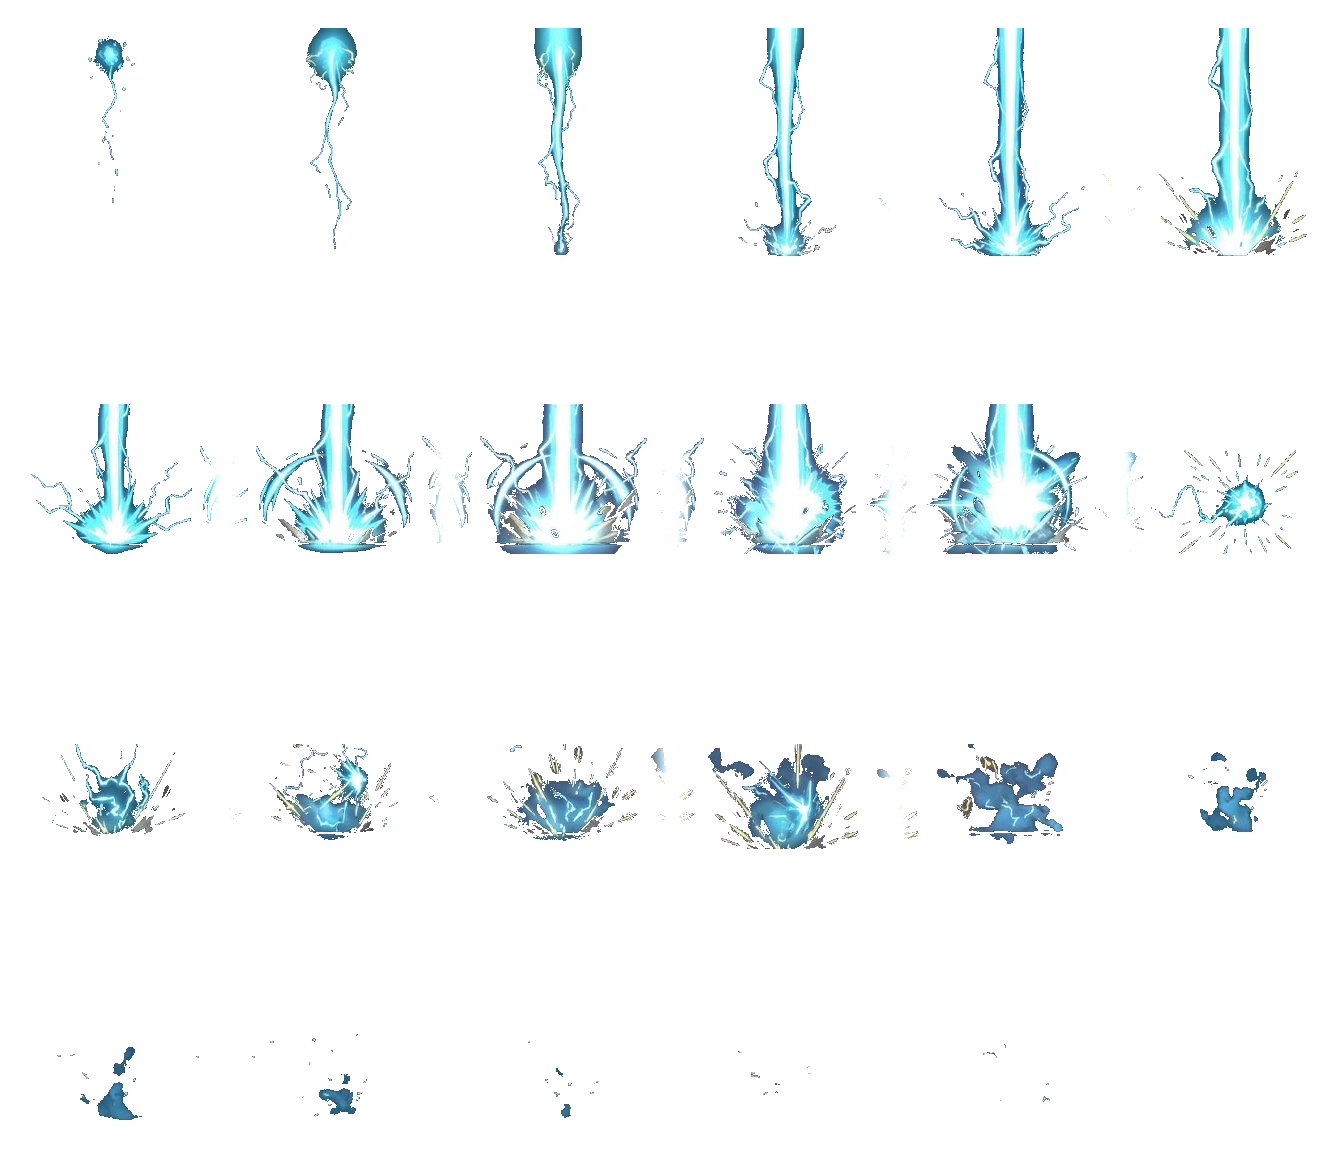
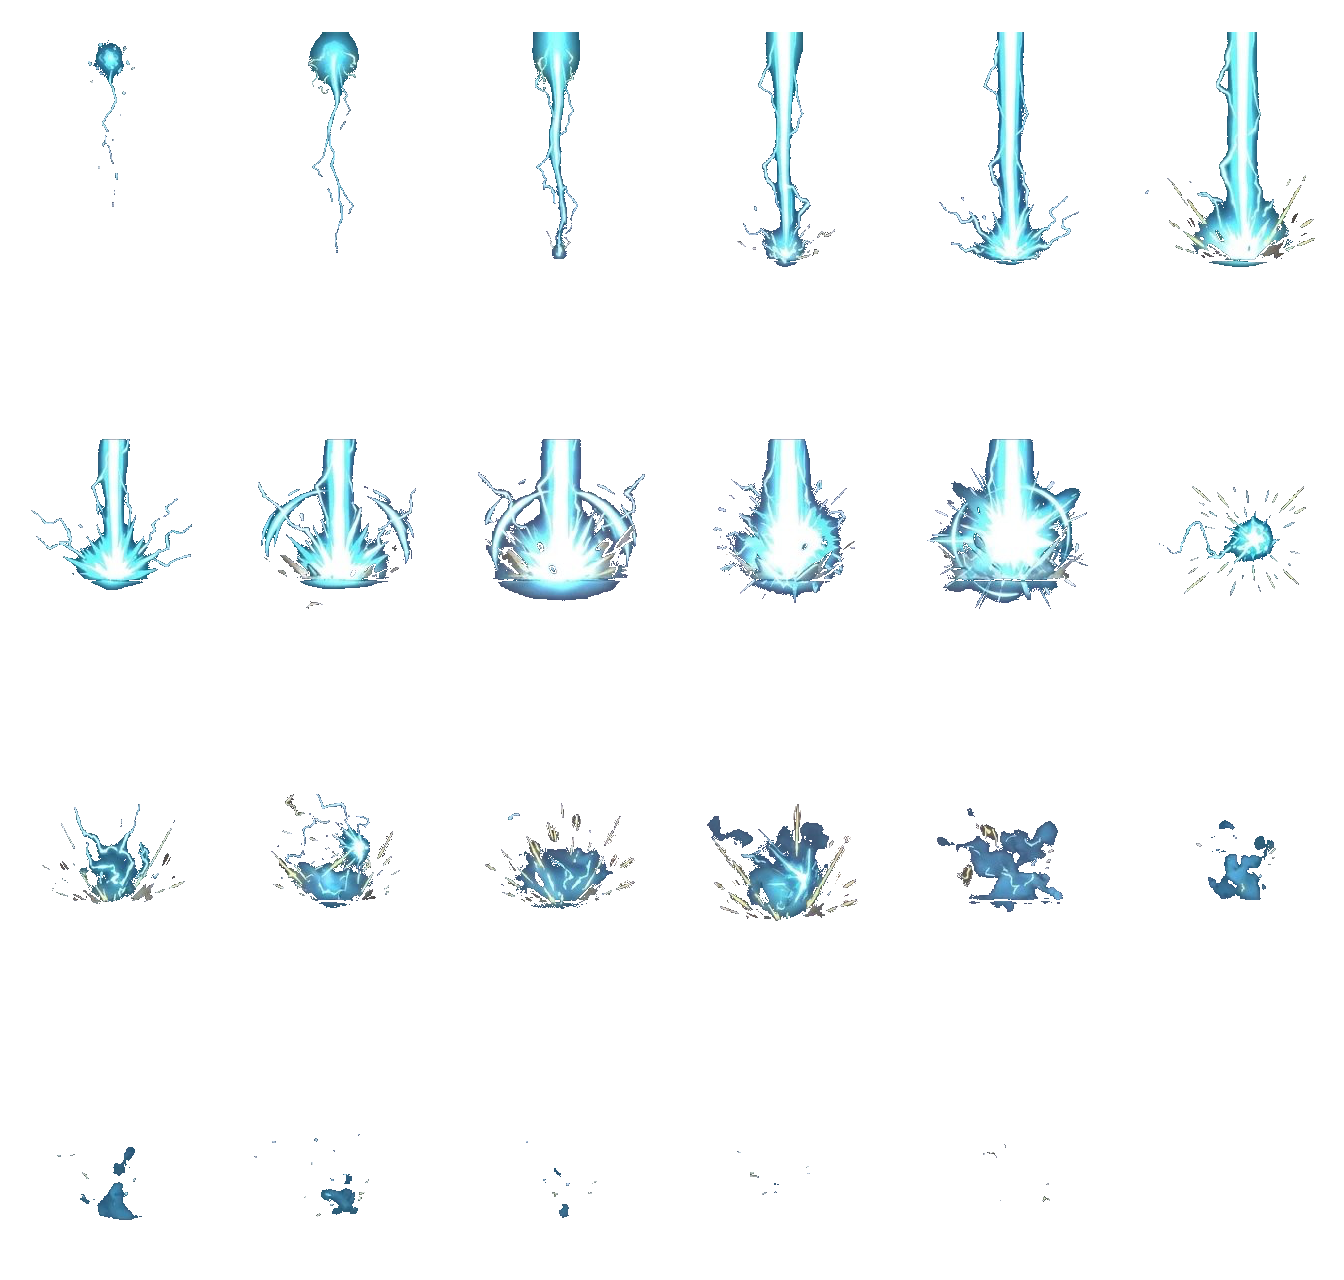
fix(vfx): eliminar detritos duplicados e corte inferior da explosao do raio dos ceus

diff --git a/src/bolt.js b/src/bolt.js
@@ -224,11 +224,11 @@ export class SkyStrike {
     const { cellW, cellH, anchor, cols } = strikeMeta;
     // Escala equilibrada com o Saxon/Viking
     const s = (this.unit / 3.0) * 1.35;
-    const groundDrawY = this.y;
-    const topDrawY = groundDrawY - anchor.y * s;
+    // Altura onde a arte do raio começa em relação ao chão (228px nos frames 1..5, 141px nos frames 6..10)
+    const boltTopY = this.y - (this.frame <= 5 ? 228 : 141) * s;
 
     // Conexão contínua suave com o topo do céu durante a queda do raio (frames 1 a 10)
-    if (this.frame >= 1 && this.frame <= 10 && topDrawY > 0) {
+    if (this.frame >= 1 && this.frame <= 10 && boltTopY > 0) {
       const beamW = (this.frame <= 2 ? 8 : this.frame <= 4 ? 16 : 24) * s;
       ctx.save();
       // Gradiente horizontal suave com bordas transparentes (sem linhas retas cortadas)
@@ -241,7 +241,7 @@ export class SkyStrike {
       g.addColorStop(0.75, 'rgba(110,225,255,0.45)');
       g.addColorStop(1, 'rgba(110,225,255,0)');
       ctx.fillStyle = g;
-      ctx.fillRect(this.x - beamW * 1.6, 0, beamW * 3.2, topDrawY + 4);
+      ctx.fillRect(this.x - beamW * 1.6, 0, beamW * 3.2, boltTopY + 4);
       ctx.restore();
     }
 
